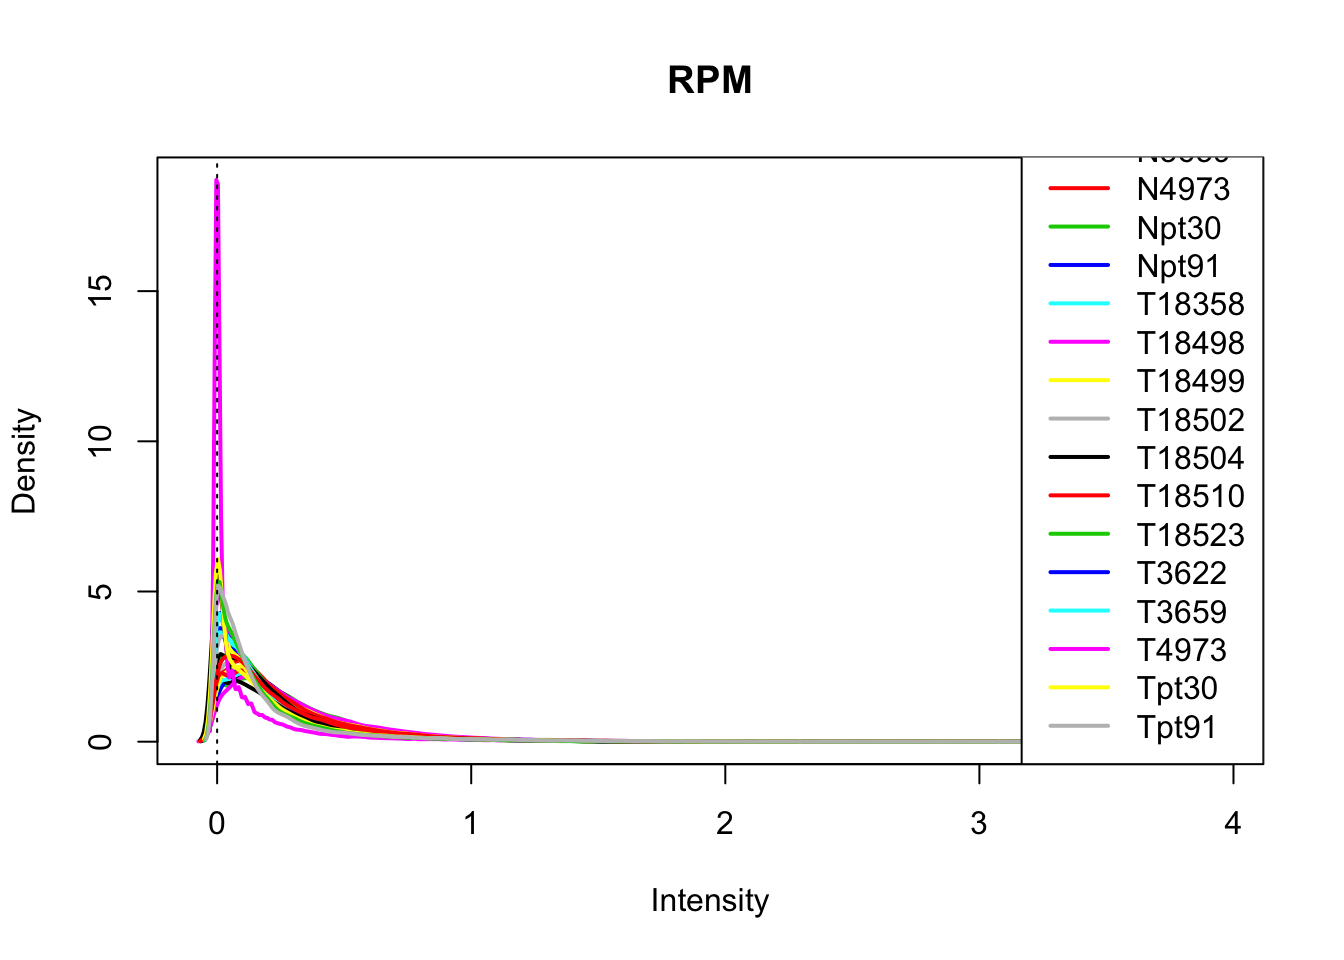
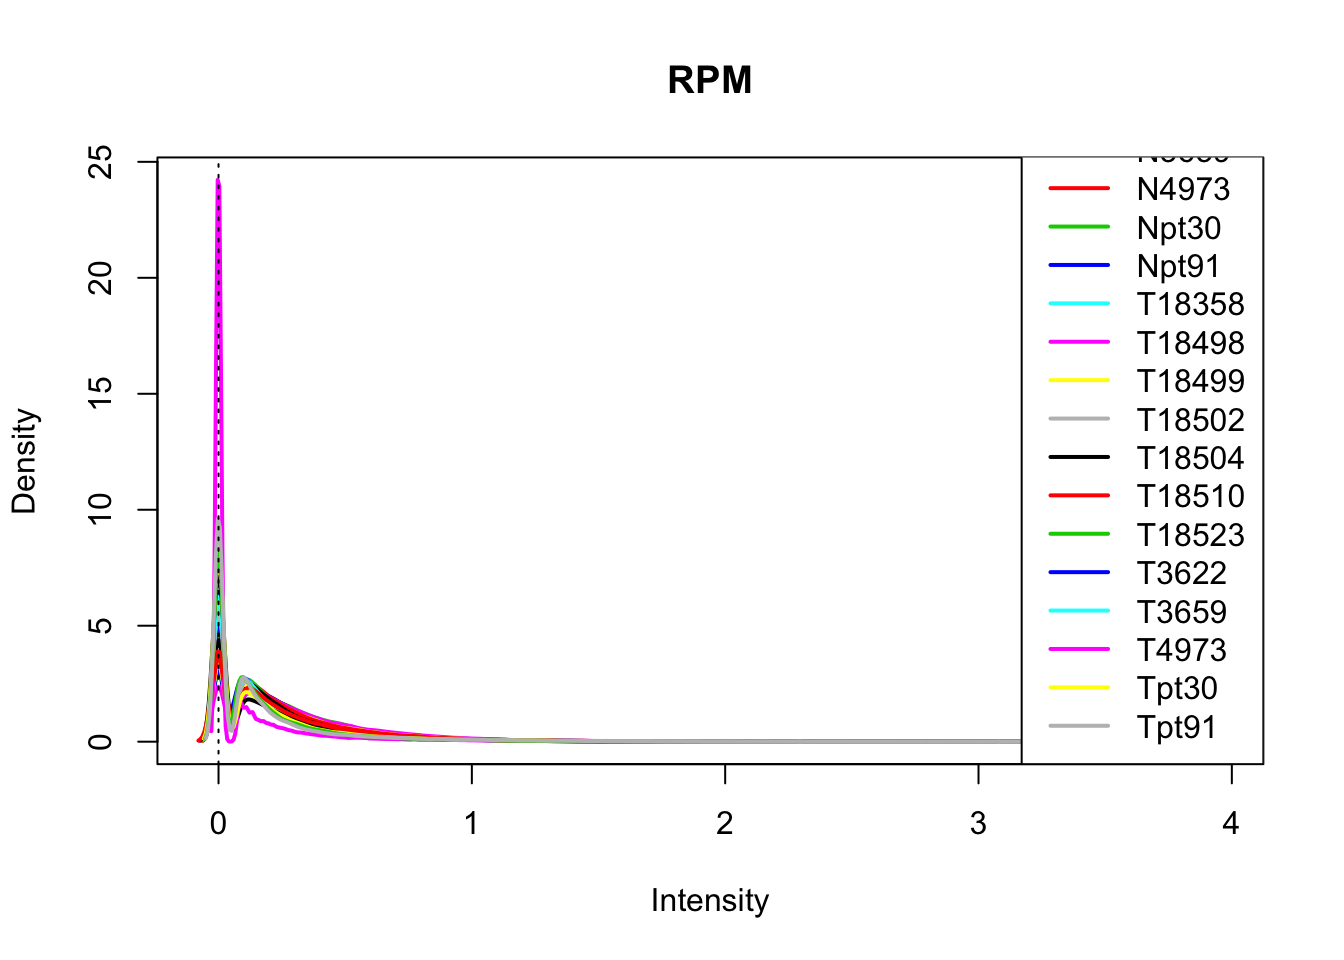
Build site.

diff --git a/docs/reads.per.peak.html b/docs/reads.per.peak.html
@@ -346,14 +346,13 @@ div.section {
 </details>
 </li>
 <li>
-<p><details> <summary> <strong style="color:blue;">✔</strong> <strong>Repository version:</strong> <a href="https://github.com/brimittleman/comparative_threeprime/tree/686bab0f18fc3934d926aa0f195af6c844ea801c" target="_blank">686bab0</a> </summary></p>
+<p><details> <summary> <strong style="color:blue;">✔</strong> <strong>Repository version:</strong> <a href="https://github.com/brimittleman/comparative_threeprime/tree/bb29739e93ef78144353de1a7f7a42e815d61b70" target="_blank">bb29739</a> </summary></p>
 Great! You are using Git for version control. Tracking code development and connecting the code version to the results is critical for reproducibility. The version displayed above was the version of the Git repository at the time these results were generated. <br><br> Note that you need to be careful to ensure that all relevant files for the analysis have been committed to Git prior to generating the results (you can use <code>wflow_publish</code> or <code>wflow_git_commit</code>). workflowr only checks the R Markdown file, but you know if there are other scripts or data files that it depends on. Below is the status of the Git repository when the results were generated:
 <pre><code>
 Ignored files:
     Ignored:    .RData
     Ignored:    .Rhistory
     Ignored:    .Rproj.user/
-    Ignored:    analysis/figure/
 
 Untracked files:
     Untracked:  com_threeprime.Rproj
@@ -396,6 +395,40 @@ Message
 </tr>
 </thead>
 <tbody>
+<tr>
+<td style="text-align:left;">
+Rmd
+</td>
+<td style="text-align:left;">
+<a href="https://github.com/brimittleman/comparative_threeprime/blob/bb29739e93ef78144353de1a7f7a42e815d61b70/analysis/reads.per.peak.Rmd" target="_blank">bb29739</a>
+</td>
+<td style="text-align:left;">
+brimittleman
+</td>
+<td style="text-align:left;">
+2018-08-27
+</td>
+<td style="text-align:left;">
+norm and filter
+</td>
+</tr>
+<tr>
+<td style="text-align:left;">
+html
+</td>
+<td style="text-align:left;">
+<a href="https://cdn.rawgit.com/brimittleman/comparative_threeprime/5049ea1e4238a6e0d9f46b2de39b2f9a0a4fe58b/docs/reads.per.peak.html" target="_blank">5049ea1</a>
+</td>
+<td style="text-align:left;">
+brimittleman
+</td>
+<td style="text-align:left;">
+2018-08-27
+</td>
+<td style="text-align:left;">
+Build site.
+</td>
+</tr>
 <tr>
 <td style="text-align:left;">
 Rmd
@@ -877,21 +910,105 @@ library_order=order(read_stats$library)
 
 allPeakQuant_matrix_rpm=allPeakQuant_matrix_rpm[,order(library_order)]
 allPeakQuant_matrix=allPeakQuant_matrix[,order(library_order)]
-read_stats_T=read_stats%&gt;% t
+read_stats_T=read_stats%&gt;% t  
+
+
+#filter for more than 2 reads
+allPeakQuant_matrix_filt=ifelse(allPeakQuant_matrix&lt;=2,0,allPeakQuant_matrix)
 
 
 
+#make RPM
 for (i in seq(1:ncol(allPeakQuant_matrix))) {
   x=as.integer(read_stats_T[2,i])/1000000
-  allPeakQuant_matrix_rpm[,i]=as.vector(allPeakQuant_matrix[,i])/x
+  allPeakQuant_matrix_rpm[,i]=as.vector(allPeakQuant_matrix_filt[,i])/x
 }</code></pre>
 <pre class="r"><code>par(mfrow=c(2,1))
 boxplot(log10(allPeakQuant + 1), main=&quot;Log Raw Counts + 1&quot;)
 boxplot(log10(allPeakQuant_matrix_rpm + 1), main=&quot;log 10 RPM Counts + 1&quot;)</code></pre>
 <p><img src="figure/reads.per.peak.Rmd/unnamed-chunk-16-1.png" width="672" style="display: block; margin: auto;" /></p>
+<details> <summary><em>Expand here to see past versions of unnamed-chunk-16-1.png:</em></summary>
+<table style="border-collapse:separate; border-spacing:5px;">
+<thead>
+<tr>
+<th style="text-align:left;">
+Version
+</th>
+<th style="text-align:left;">
+Author
+</th>
+<th style="text-align:left;">
+Date
+</th>
+</tr>
+</thead>
+<tbody>
+<tr>
+<td style="text-align:left;">
+<a href="https://github.com/brimittleman/comparative_threeprime/blob/5049ea1e4238a6e0d9f46b2de39b2f9a0a4fe58b/docs/figure/reads.per.peak.Rmd/unnamed-chunk-16-1.png" target="_blank">5049ea1</a>
+</td>
+<td style="text-align:left;">
+brimittleman
+</td>
+<td style="text-align:left;">
+2018-08-27
+</td>
+</tr>
+</tbody>
+</table>
+<p></details></p>
 <pre class="r"><code>plotDensities(log10(allPeakQuant_matrix_rpm+1), legend = &quot;bottomright&quot;, main=&quot;RPM&quot;)
 abline(v = 0, lty = 3)</code></pre>
 <p><img src="figure/reads.per.peak.Rmd/unnamed-chunk-17-1.png" width="672" style="display: block; margin: auto;" /></p>
+<details> <summary><em>Expand here to see past versions of unnamed-chunk-17-1.png:</em></summary>
+<table style="border-collapse:separate; border-spacing:5px;">
+<thead>
+<tr>
+<th style="text-align:left;">
+Version
+</th>
+<th style="text-align:left;">
+Author
+</th>
+<th style="text-align:left;">
+Date
+</th>
+</tr>
+</thead>
+<tbody>
+<tr>
+<td style="text-align:left;">
+<a href="https://github.com/brimittleman/comparative_threeprime/blob/5049ea1e4238a6e0d9f46b2de39b2f9a0a4fe58b/docs/figure/reads.per.peak.Rmd/unnamed-chunk-17-1.png" target="_blank">5049ea1</a>
+</td>
+<td style="text-align:left;">
+brimittleman
+</td>
+<td style="text-align:left;">
+2018-08-27
+</td>
+</tr>
+</tbody>
+</table>
+<p></details></p>
+<p>Normalize by the sample RPM average for each sample:</p>
+<pre class="r"><code>RPM_mean=apply(allPeakQuant_matrix_rpm, 2,function(x)mean(x))
+
+
+allPeakQuant_matrix_rpm_Norm=allPeakQuant_matrix_rpm
+
+
+
+for (i in seq(1:ncol(allPeakQuant_matrix_rpm_Norm))) {
+  allPeakQuant_matrix_rpm_Norm[,i]=as.vector(allPeakQuant_matrix_rpm[,i])/RPM_mean[i]
+}</code></pre>
+<pre class="r"><code>par(mfrow=c(2,1))
+boxplot(log10(allPeakQuant + 1), main=&quot;Log Raw Counts + 1&quot;)
+boxplot(log10(allPeakQuant_matrix_rpm_Norm + 1), main=&quot;Normalized log 10 RPM Counts + 1&quot;)</code></pre>
+<p><img src="figure/reads.per.peak.Rmd/unnamed-chunk-19-1.png" width="672" style="display: block; margin: auto;" /></p>
+<pre class="r"><code>plotDensities(log10(allPeakQuant_matrix_rpm_Norm+1), legend = &quot;bottomright&quot;, main=&quot;log10 normalized RPM + 1&quot;)
+abline(v = 0, lty = 3)</code></pre>
+<p><img src="figure/reads.per.peak.Rmd/unnamed-chunk-20-1.png" width="672" style="display: block; margin: auto;" /></p>
+<p><em>I now have normalized values that are filtered for peaks that had &gt;2 reads.</em></p>
 </div>
 <div id="session-information" class="section level2">
 <h2>Session information</h2>
